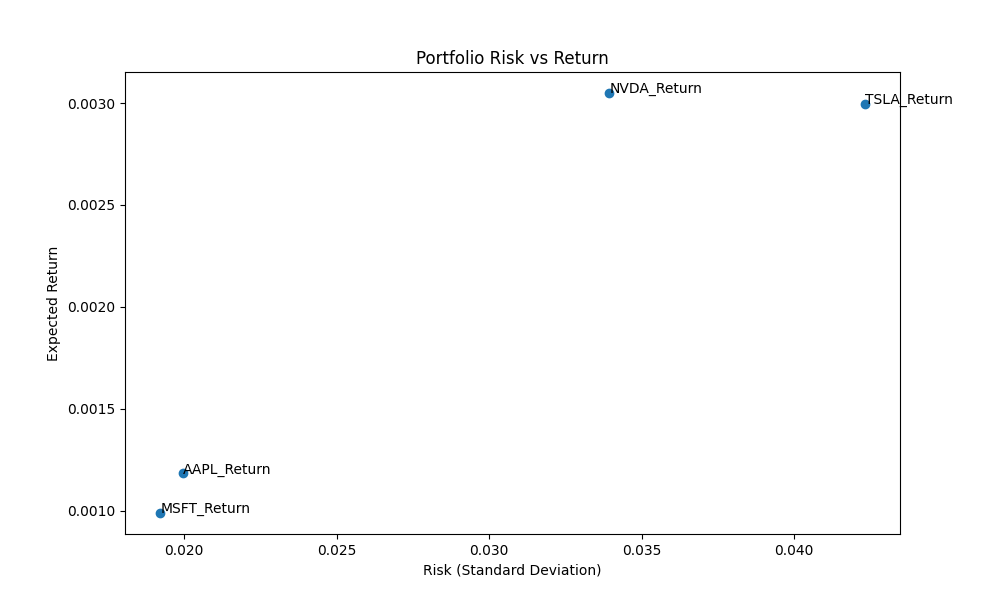
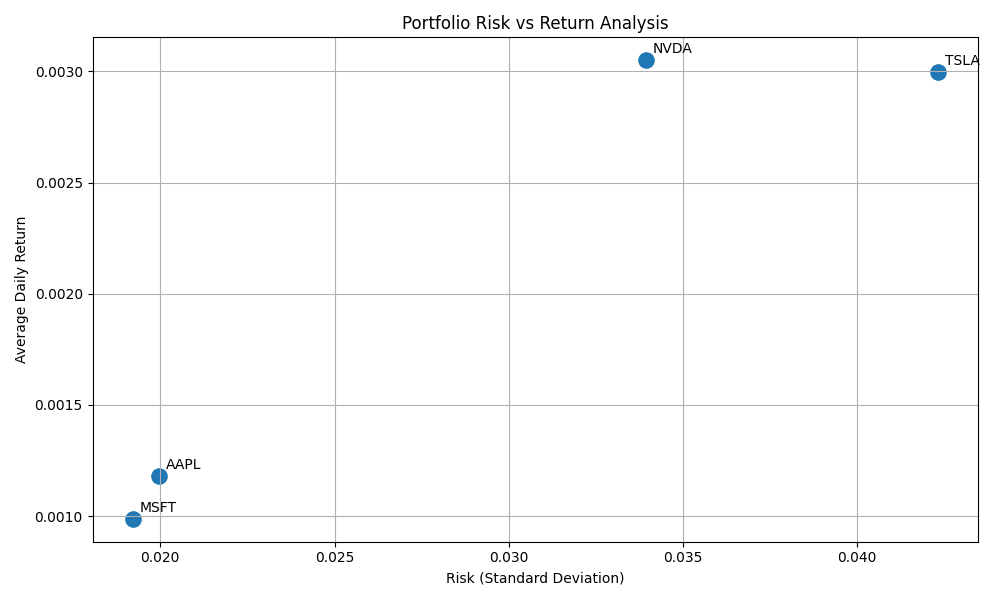
Improved portfolio optimization visualization

diff --git a/alphapulse/week4_advanced_analytics/portfolio_analysis/portfolio_optimization.py b/alphapulse/week4_advanced_analytics/portfolio_analysis/portfolio_optimization.py
@@ -1,33 +1,47 @@
 import pandas as pd
-import numpy as np
 import matplotlib.pyplot as plt
 
 # Load dataset
-df = pd.read_csv('alphapulse/week3_dashboard/data_preparation/final_dataset.csv')
+df = pd.read_csv(
+    'alphapulse/week3_dashboard/data_preparation/final_dataset.csv'
+)
 
-# Select return columns
-returns = df[['AAPL_Return', 'MSFT_Return', 'NVDA_Return', 'TSLA_Return']]
+# Select stock return columns
+returns = df[
+    ['AAPL_Return', 'MSFT_Return', 'NVDA_Return', 'TSLA_Return']
+]
 
-# Average returns
+# Calculate average return
 mean_returns = returns.mean()
 
-# Risk calculation
+# Calculate risk (standard deviation)
 risk = returns.std()
 
-# Plot Risk vs Return
-plt.figure(figsize=(10,6))
+# Create figure
+plt.figure(figsize=(10, 6))
 
-plt.scatter(risk, mean_returns)
+# Scatter plot
+plt.scatter(risk, mean_returns, s=120)
 
 # Add stock labels
 for stock in returns.columns:
-    plt.annotate(stock, (risk[stock], mean_returns[stock]))
+    plt.annotate(
+        stock.replace('_Return', ''),
+        (risk[stock], mean_returns[stock]),
+        xytext=(5, 5),
+        textcoords='offset points'
+    )
 
-plt.title('Portfolio Risk vs Return')
+# Chart formatting
+plt.title('Portfolio Risk vs Return Analysis')
 plt.xlabel('Risk (Standard Deviation)')
-plt.ylabel('Expected Return')
+plt.ylabel('Average Daily Return')
+plt.grid(True)
+plt.tight_layout()
 
 # Save chart
-plt.savefig('alphapulse/week4_advanced_analytics/outputs/portfolio_optimization.png')
+plt.savefig(
+    'alphapulse/week4_advanced_analytics/outputs/portfolio_optimization.png'
+)
 
 print("✅ Portfolio Optimization Completed!")
